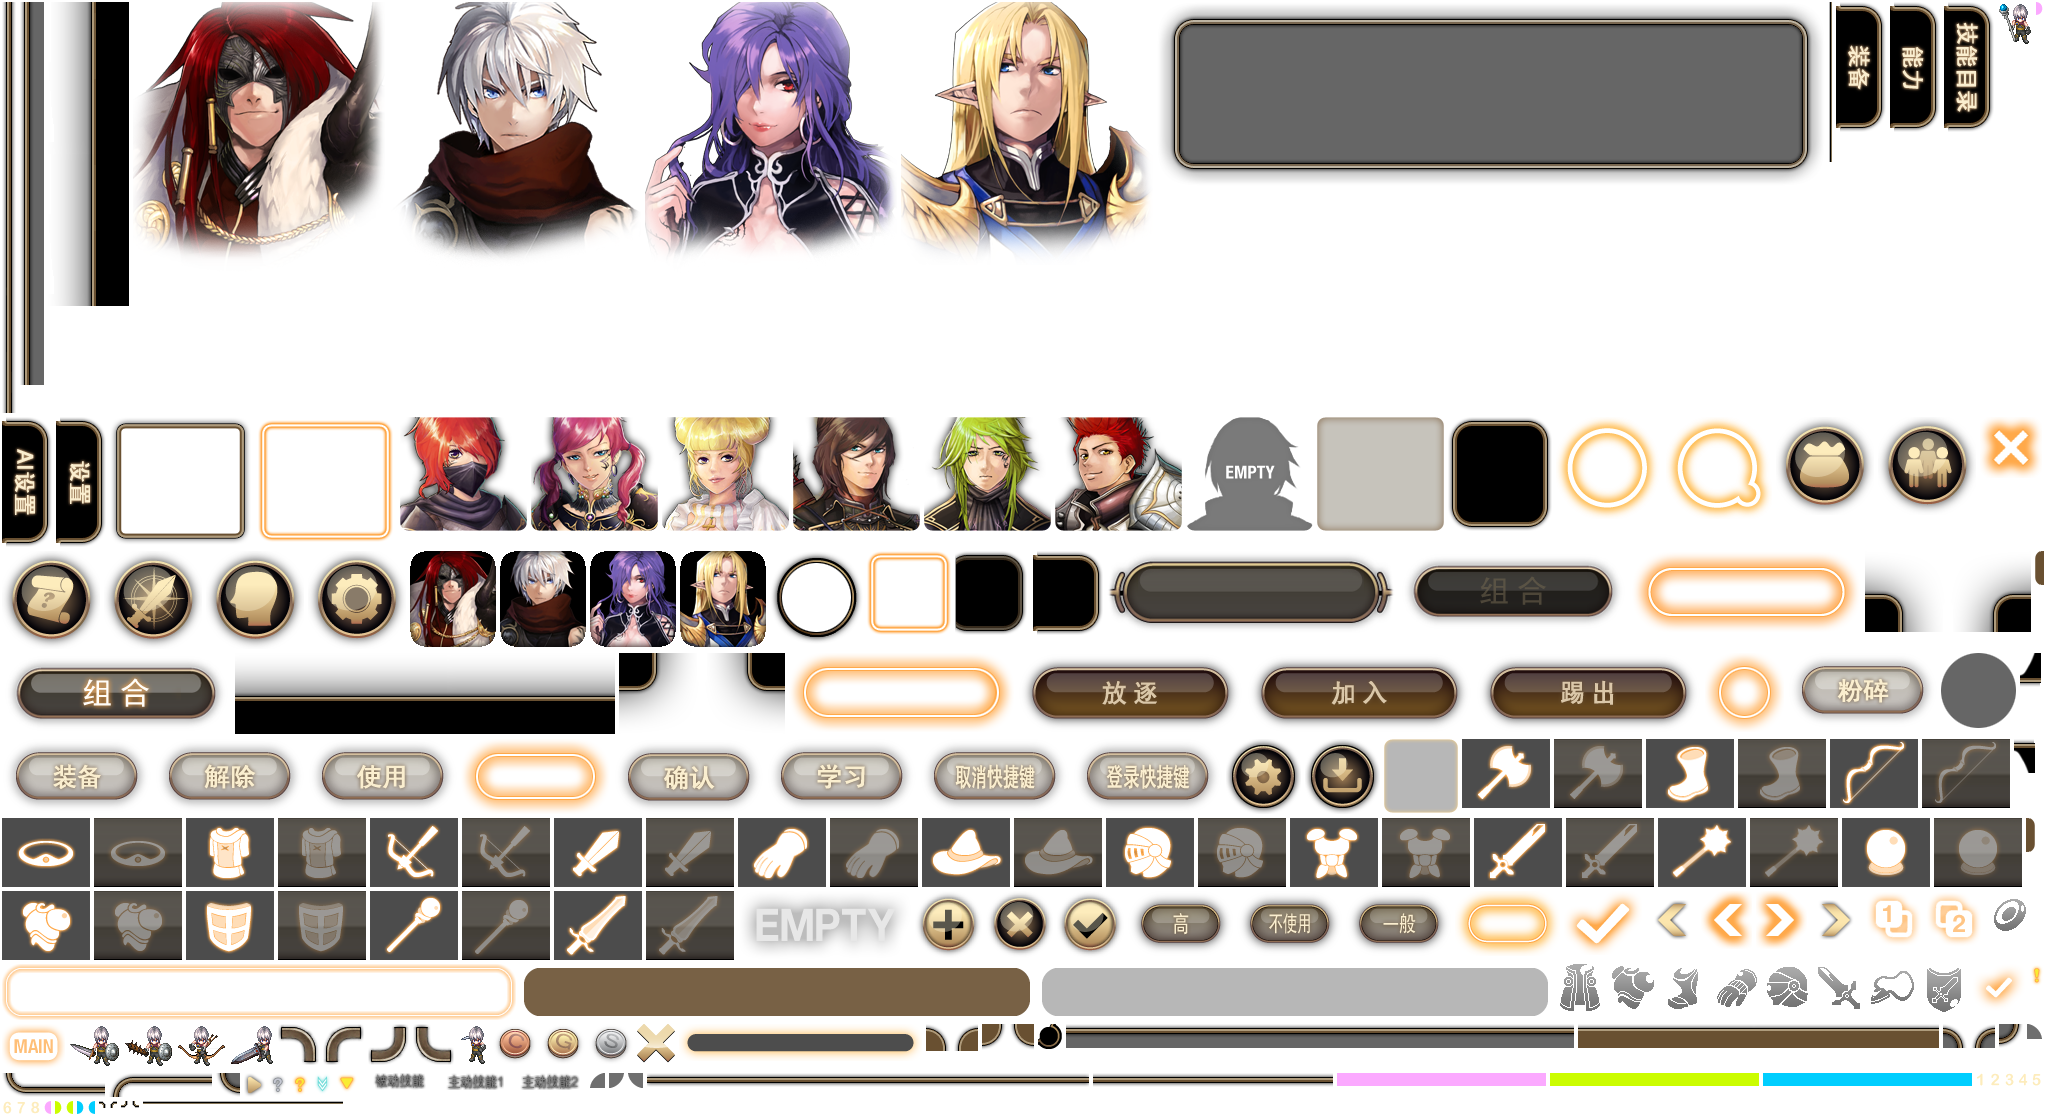
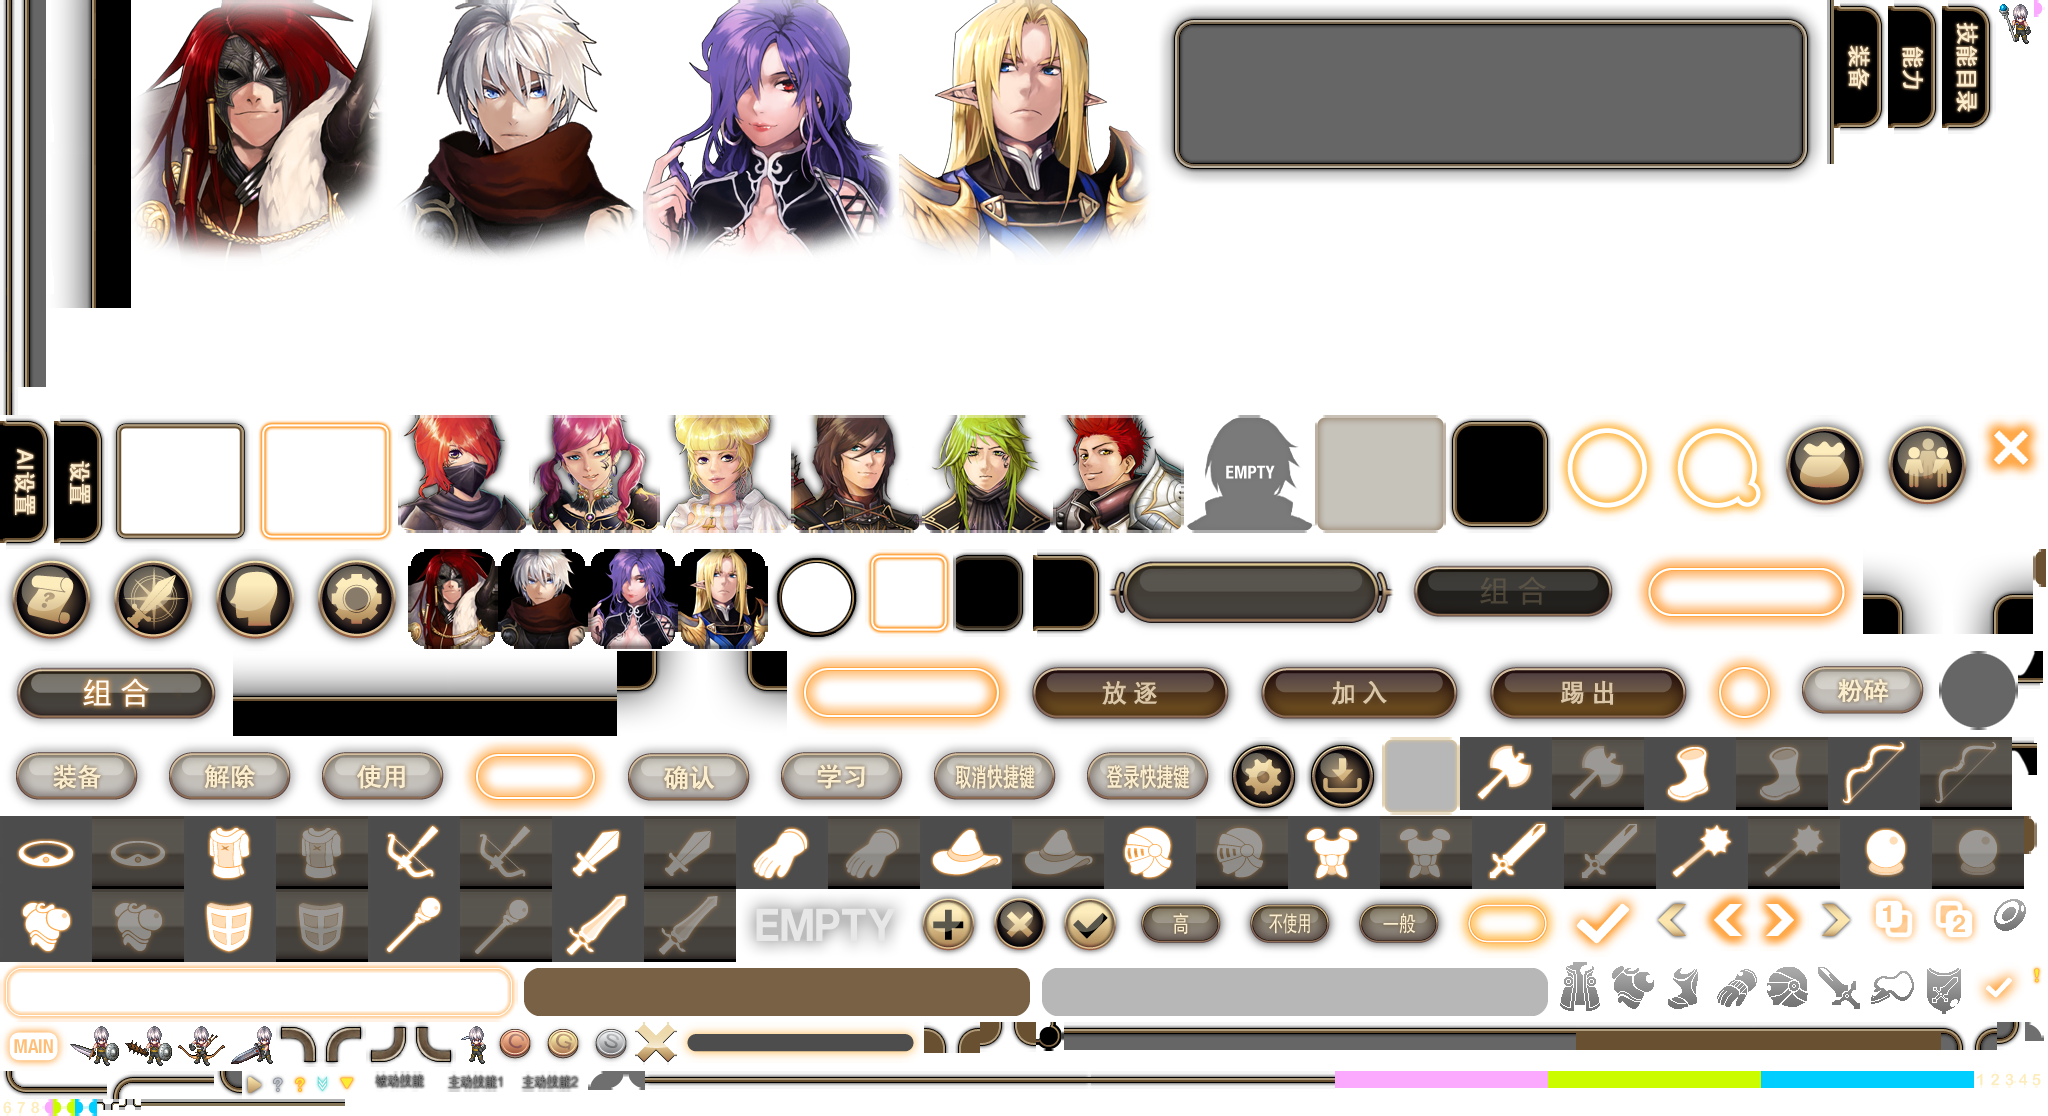
fix(ui): 菜单 UI 图集外扩边缘像素，消除缩放黑缝
图集帧之间留的是透明空隙，菜单在非整数缩放下走线性过滤，帧边缘采样到空隙后
相邻两块 UI 之间透出黑线，人物页能力点标题条与属性行最明显。打包时把每帧
最外一圈像素向四周复制 PADDING 像素，并重新生成 menu-ui-0.png。

验证：npm run atlas:ui；typecheck、build 通过。

diff --git a/tools/build-ui-atlas.ts b/tools/build-ui-atlas.ts
@@ -134,6 +134,21 @@ export function writeUiAtlas(): { files: number; unique: number; pages: number; 
         const to = ((frame.y + row) * page.width + frame.x) * 4;
         png.data.copy(atlas.data, to, from, from + frame.w * 4);
       }
+      // 帧之间留的是透明空隙；UI 在非整数缩放下走线性过滤，边缘会采到空隙，拼起来就透出黑缝。
+      // 把最外一圈像素向四周复制 PADDING 像素，帧外的采样读到的是同一颜色。
+      const put = (x: number, y: number, sourceX: number, sourceY: number): void => {
+        const from = (sourceY * frame.w + sourceX) * 4;
+        const to = ((frame.y + y) * page.width + frame.x + x) * 4;
+        png.data.copy(atlas.data, to, from, from + 4);
+      };
+      for (let offset = 1; offset <= PADDING; offset++) {
+        for (let x = 0; x < frame.w; x++) { put(x, -offset, x, 0); put(x, frame.h - 1 + offset, x, frame.h - 1); }
+        for (let y = 0; y < frame.h; y++) { put(-offset, y, 0, y); put(frame.w - 1 + offset, y, frame.w - 1, y); }
+      }
+      for (let dx = 1; dx <= PADDING; dx++) for (let dy = 1; dy <= PADDING; dy++) {
+        put(-dx, -dy, 0, 0); put(frame.w - 1 + dx, -dy, frame.w - 1, 0);
+        put(-dx, frame.h - 1 + dy, 0, frame.h - 1); put(frame.w - 1 + dx, frame.h - 1 + dy, frame.w - 1, frame.h - 1);
+      }
     }
     fs.mkdirSync(path.dirname(path.join(PUBLIC, image)), { recursive: true });
     const bytes = PNG.sync.write(atlas, { colorType: 6 });
